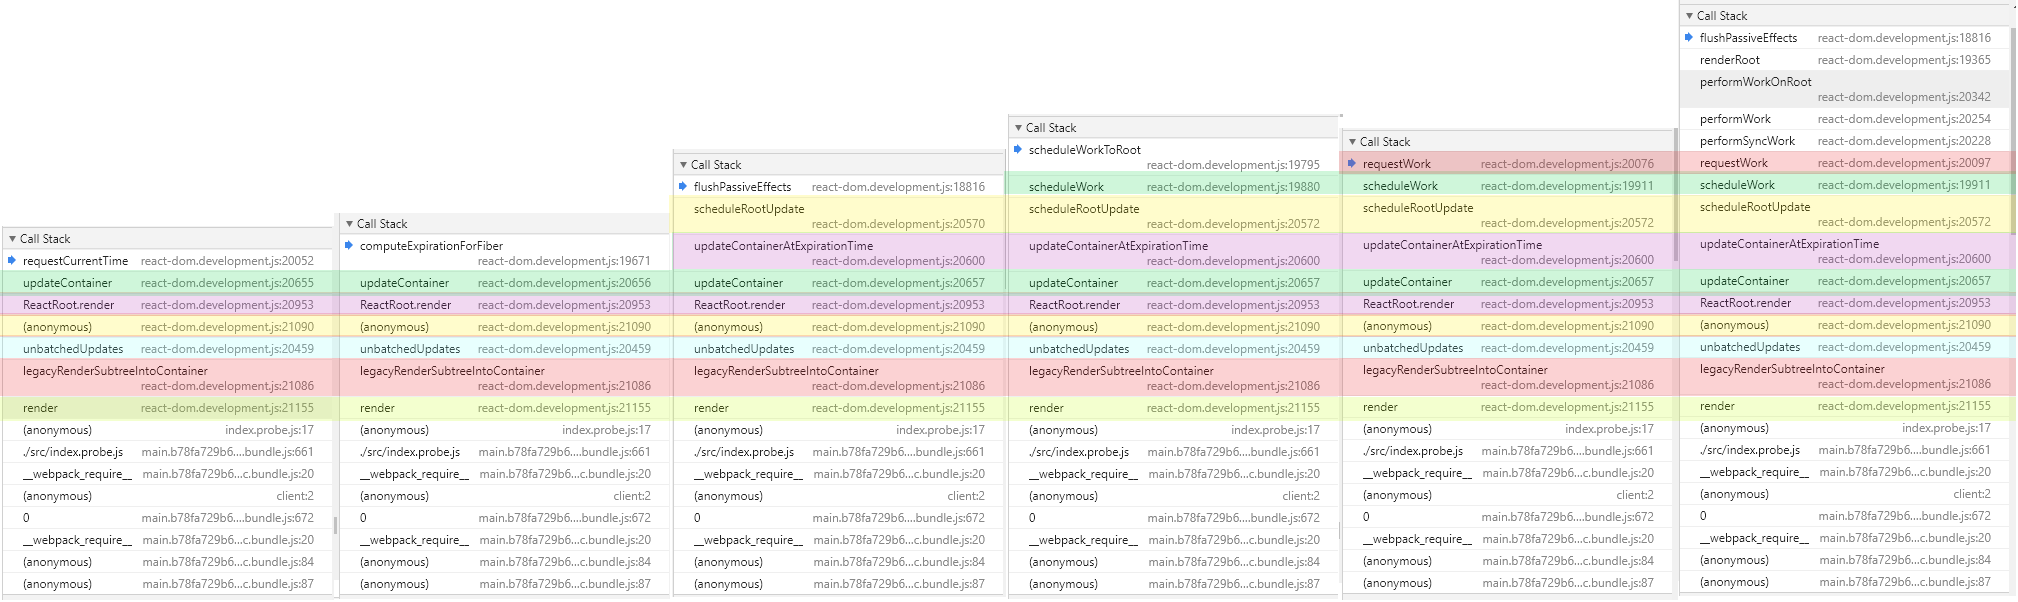
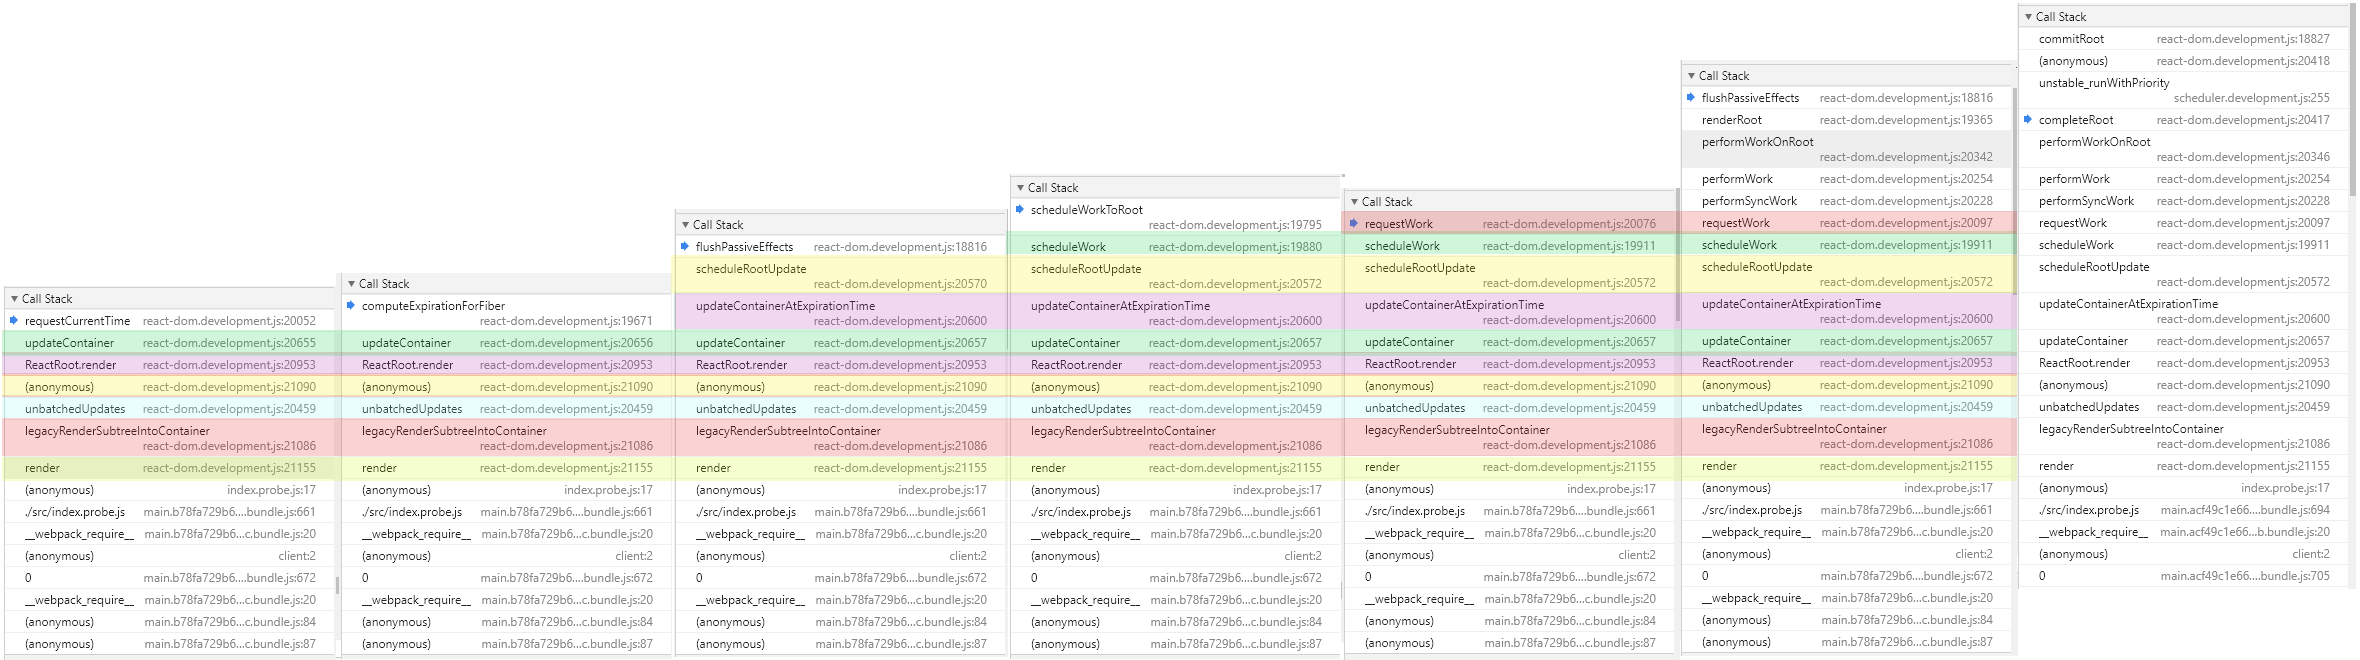
itpt(scheduler): add of stack list & part of requestCurrentTime

diff --git a/08.React 勘测笔记 V - ReactFiberScheduler.md b/08.React 勘测笔记 V - ReactFiberScheduler.md
@@ -1,6 +1,8 @@
 # React 勘测笔记 V - ReactFiberScheduler
 
-:dolphin: [ReactUpdateQueue.js](https://github.com/TAUnionOtto/react-interpretation/blob/master/packages/react-reconciler/src/ReactFiberScheduler.js)
+:dolphin: [ReactFiberScheduler.js](https://github.com/TAUnionOtto/react-interpretation/blob/master/packages/react-reconciler/src/ReactFiberScheduler.js)
+
+v16.9.0-rc.0 中这个文件已经被更名为 [ReactFiberWorkLoop.js](https://github.com/facebook/react/blob/v16.9.0-rc.0/packages/react-reconciler/src/ReactFiberWorkLoop.js)，其实现也发生了不小的改变，但对外接口没有发生大的变化。粗略来看新的 WorkLoop 在代码上更容易理解，他填平了 Scheduler 中的布尔值地狱，并用一种类似于“执行上下文”（Context）的概念统一的代替了这些更改逻辑分散在各处的布尔值们。目前这个文件还留着大量的 TODO，等这个文件稳定之后，我会试着重新组织一篇 WorkLoop 的解析。
 
 ## React.render 调用过程
 
@@ -18,6 +20,8 @@
         - requestWork
         - call to renderRoot
           - flushPassiveEffects
+        - call to completeRoot
+          - commitRoot
 
 ## dom event 触发的 setData
 
@@ -33,7 +37,9 @@
     - scheduleWork
       - scheduleWorkToRoot
       - requestWork
-- call to flushPassiveEffects
+- call to renderRoot
+  - flushPassiveEffects
+  - call to commitRoot
 
 ## setTimeout 触发的 setData
 
@@ -49,14 +55,69 @@
       - requestWork
       - call to renderRoot
         - flushPassiveEffects
+        - call to commitRoot
 
 ## 一般情况下的调用过程
 
-单次 `ReactDOM.render` 和 `setState` 调用 Scheduler 的流程大致相同，都是：
+单次 `ReactDOM.render` 和 `setState` 调用 Scheduler 的流程大致相同（这里暂且先考察暴露出去的方法），都是：
 
 ```js
    requestCurrentTime -> computeExpirationForFiber
 -> flushPassiveEffects
 -> scheduleWork -> scheduleWorkToRoot -> requestWork
 -> flushPassiveEffects
+-> commitRoot
 ```
+
+## requestCurrentTime
+
+这个方法是被调度器用来计算过期时间的。在这个方法的注释中，React 申明了这个这个方法应当实现的功能，即:
+
+> However, if two updates are scheduled within the same event, we should treat their start times as simultaneous, even if the actual clock time has advanced between the first and second call.
+>
+> 如果一个事件触发后调度了两个更新，我们应当将他们的开始时间视为一致的，即使在这两次更新的调度方法被调用之间，实际的机器时钟已经过去了一些时间了。
+
+在我的理解中，这里强调 “actual clock time has advanced” 即是指两次 `setState` 调用之间可能出现的时间差，小到函数调用时 CPU 时钟纳秒级的差别，大到两次调用间的复杂逻辑甚至打断点导致的时间差，在 React 的设计中均应当是被抹平的。
+
+*注意* `setTimeout` 和 `Promise` 所产生的等待并不会造成这种时间差，如果你对 eventLoop 有基本的了解，你应该明白 `dispatchInteractiveEvent` 可是不会等待你所注册的 callback 中所写的这些“任务”的。
+
+接下来我们看 React 是如何抹平这一时间差的。
+
+- 判断当前是否在 render 过程中，若在，则返回 `currentSchedulerTime`
+
+  布尔值 `isRendering` 是用来判断当前是否在 render 过程中的，仅有在执行 `performWorkOnRoot` 和 `commitPassiveEffects` 的过程中，这个布尔值才会被置为 `true`。
+
+  一个典型的“在 render 过程中执行 `requestCurrentTime`”的例子就是在 `setState` 的回调中执行 `setState`：
+
+  ```js
+  this.setState(
+    { count: this.state.count + 1 },
+    () => { this.setState({ count: this.state.count + 1 }); },
+  );
+  ```
+
+  从前文我们了解到，`setState` 的回调是由 `updateQueue.commitUpdateQueue` 遍历 effect 链表时执行的，但是我们并没有详细解释他是被谁调用的。
+
+  实际上 `commitUpdateQueue` 会在 `performWorkOnRoot` 执行时，通过执行生命周期的函数 :dolphin: [ReactFiberCommitWork.commitLifeCycles](https://github.com/TAUnionOtto/react-interpretation/blob/master/packages/react-reconciler/src/ReactFiberCommitWork.js#L383)，在生命周期 `componentDidMount` 或 `componentDidUpdate` 之后被执行。
+
+  所以这时候 `isRendering === true`。当然回调中的这次 `setState` 执行时，上一批 Updates 已经被处理了。虽然两次 `setState` 不会在同一批次中执行，但是第二次 `setState` 的优先级是可以被保证的。
+
+- `findHighestPriorityRoot()`
+
+  计算并检查是否有正在等待的任务。这个函数会遍历所有被调度的 FiberRoot，并算出优先级最高的 ExpirationTime 与 FiberRoot，赋值到 `nextFlushedRoot` 与 `nextFlushedExpirationTime` 中。
+
+  Scheduler 的两个相关的全局变量：`firstScheduledRoot` 和 `lastScheduledRoot` 指向被调度 FiberRoot 环链表的头和尾。
+
+- 判断当前是否有没有执行、正在等待的任务。若没有，计算新的渲染时间，
+
+<!-- 首先 Scheduler 维护了两个 ExpirationTime，`currentSchedulerTime` 与 `currentRendererTime`。他们的初始值相同，都是 `msToExpirationTime(now())`。注意初始值是在 React 初始化（即 ReactFiberScheduler.js 被 import 时）初始化的。 -->
+
+<!-- - `currentRendererTime`
+
+  即渲染时间，渲染时间可以随时更新，他的存在仅仅是为了减少对 `performance.now` 的调用。渲染时间通过函数 `recomputeCurrentRendererTime` 更新。
+
+- `currentSchedulerTime`
+
+  即调度时间，调度时间只能在当前没有正在等待的任务，且我们能确定我们不处于任何事件触发的过程中时，才会被更新。
+
+  这两个 ExpirationTime 更新时机的逻辑非常的繁复，而且在 16.9 中被砍掉了，这里就不多做展开了。 -->
